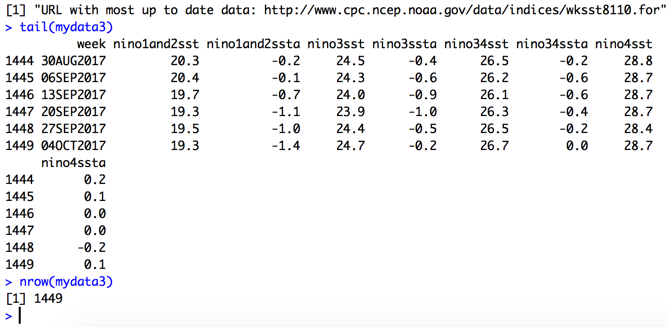
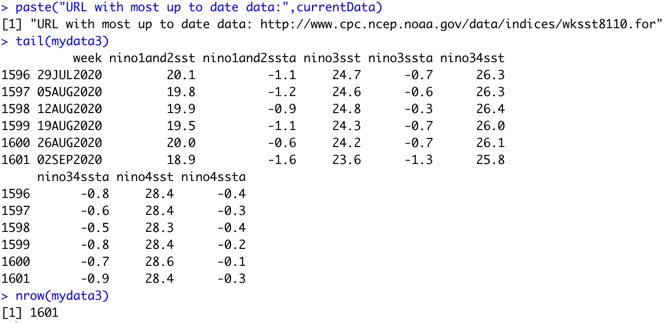
update current data thru 2 Sep 2020

Changed region(s): [[0.0, 0.0, 1.0, 0.9907], [0.3313, 0.743, 0.3916, 0.8978]]

diff --git a/markdown/cleaningData-week2Q5.md b/markdown/cleaningData-week2Q5.md
@@ -40,7 +40,7 @@ Many students get frustrated because they read the original data source directly
 
 <img src="./images/cleaningData-week2q5-05.png">
 
-As of October 14, 2017, the data from the NOAA has 1,449 observations, the most recent of which is from October 4th, 2017.
+As of September 14th 2020, the data from the NOAA has 1,601 observations, the most recent of which is from September 2nd, 2020.
 
 <img src="./images/cleaningData-week2q5-06.png">
 
